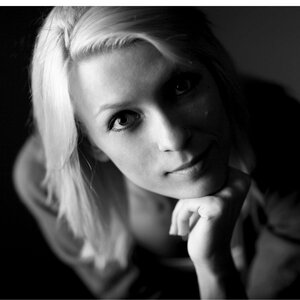
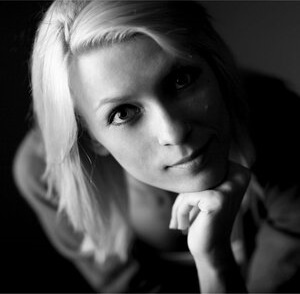
fix: html code

diff --git a/index.html b/index.html
@@ -1,3 +1,3 @@
 <link href="style.css" rel="stylesheet" />
 <div class="test" >test</div>
-<img src="images/avatar.jpg" alt="My photo" width=150px height= 165px>
+<img src="images/avatar.jpg" alt="my photo">
